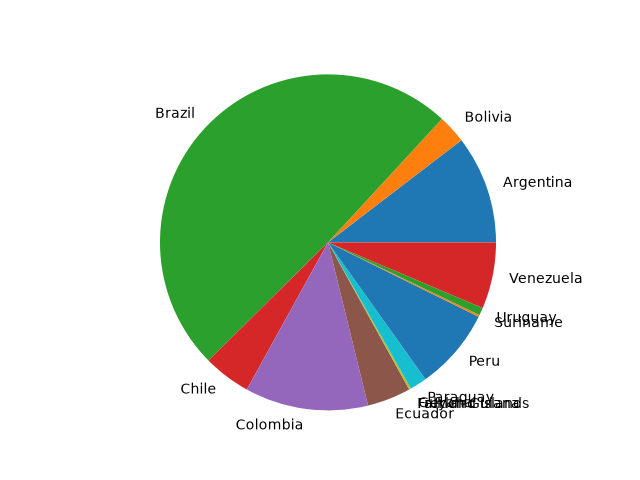
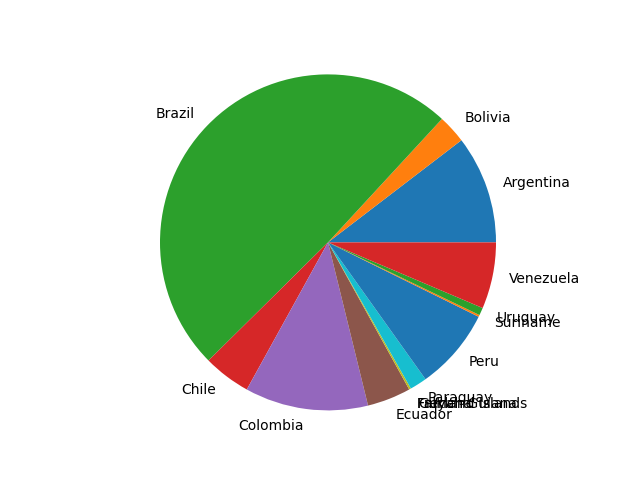
11.5 Hacemos mejoras y ajustes importantes -> probamos y ejecutamos Parte -> 1
#115

diff --git a/Python/Clase05_Entorno_Profesional/app/main.py b/Python/Clase05_Entorno_Profesional/app/main.py
@@ -12,13 +12,15 @@ def run():
     charts.generate_pie_chart(countries, percentages)
 
     country = input("Type Country => ")
+    print(country)
 
     result = utils.population_by_country(data, country)
 
     if len(result) > 0:
         country = result[0]
+        print(country)
         labels, values = utils.get_population(country)
-        charts.generate_bar_chart(labels, values)
+        charts.generate_bar_chart(country['country'], labels, values)
 
 
 if __name__ == "__main__":

diff --git a/Python/Clase05_Entorno_Profesional/app/charts.py b/Python/Clase05_Entorno_Profesional/app/charts.py
@@ -1,10 +1,10 @@
 import matplotlib.pyplot as plt
 
 
-def generate_bar_chart(labels, values):
+def generate_bar_chart(name, labels, values):
     fig, ax = plt.subplots()
     ax.bar(labels, values)
-    plt.savefig("pie.png")
+    plt.savefig(f"./imgs/{name}.png")
     plt.close()
 
 
